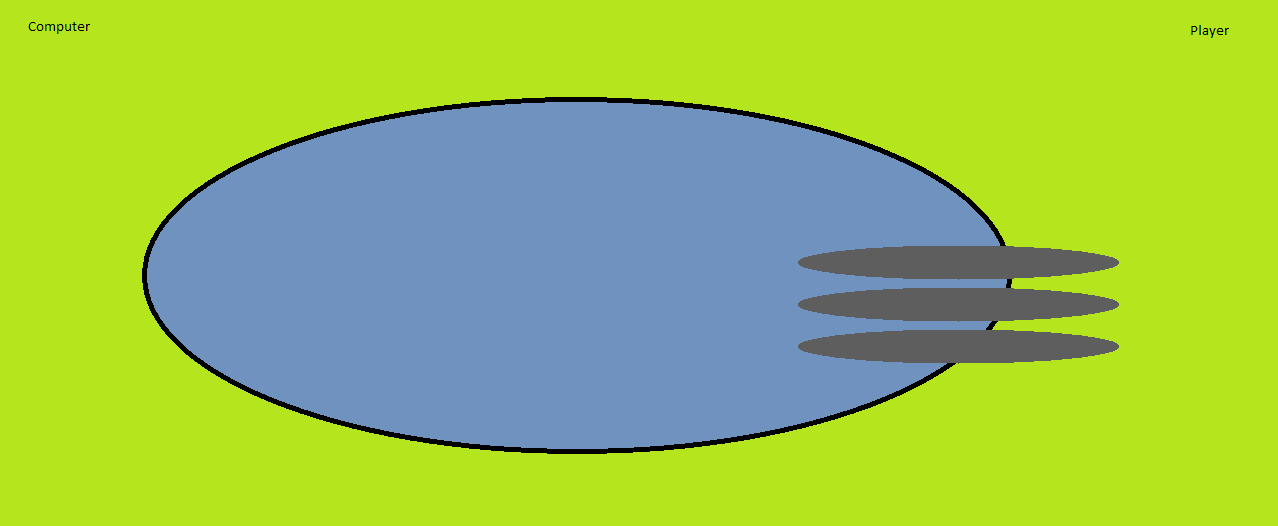
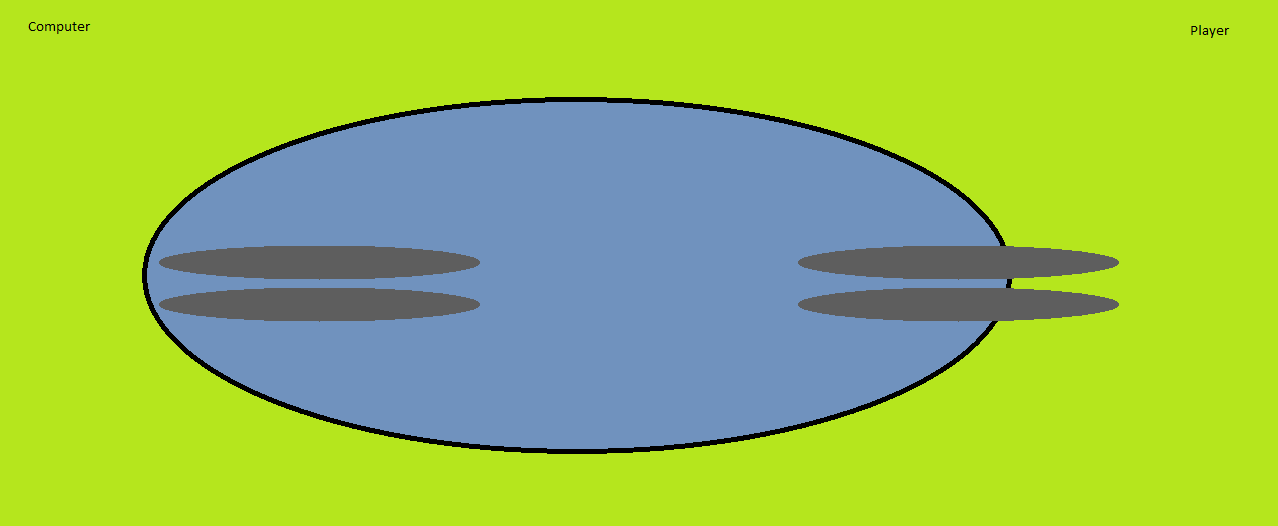
work on recursion

Changed region(s): [[0.1221, 0.4563, 0.3967, 0.6084], [0.6103, 0.6084, 0.885, 0.6996]]

diff --git a/v2.2/play.py b/v2.2/play.py
@@ -10,14 +10,26 @@ gameOverPointConversion = {
     0: 0
 }
 
+invertScores = {
+    0: 0,
+    -1: 1,
+    1: -1
+}
+
 def scoreMoves(state, maxDepth, mod=5):
     ps = possibleNextMoves(state, mod=mod)
     scores = [0 for i in range(0, len(ps))]
     if maxDepth == 0:
         return gameOverPointConversion[gameOver(state)]
     for p in range(0, len(ps)):
-        cur = evaluateMove(p, maxDepth - 1, mod=mod)
+        cur = propogate_invert_scores(scoreMoves(invertState(p), maxDepth - 1, mod=mod))
         scores[p] = sum(cur) / len(cur)
     return scores
 
-print(scoreMove())
+def propogate_invert_scores(array):
+    out = []
+    for a in array:
+        out.append(invertScores[a])
+    return out
+
+print(scoreMoves([1,1,1,1], 3))
